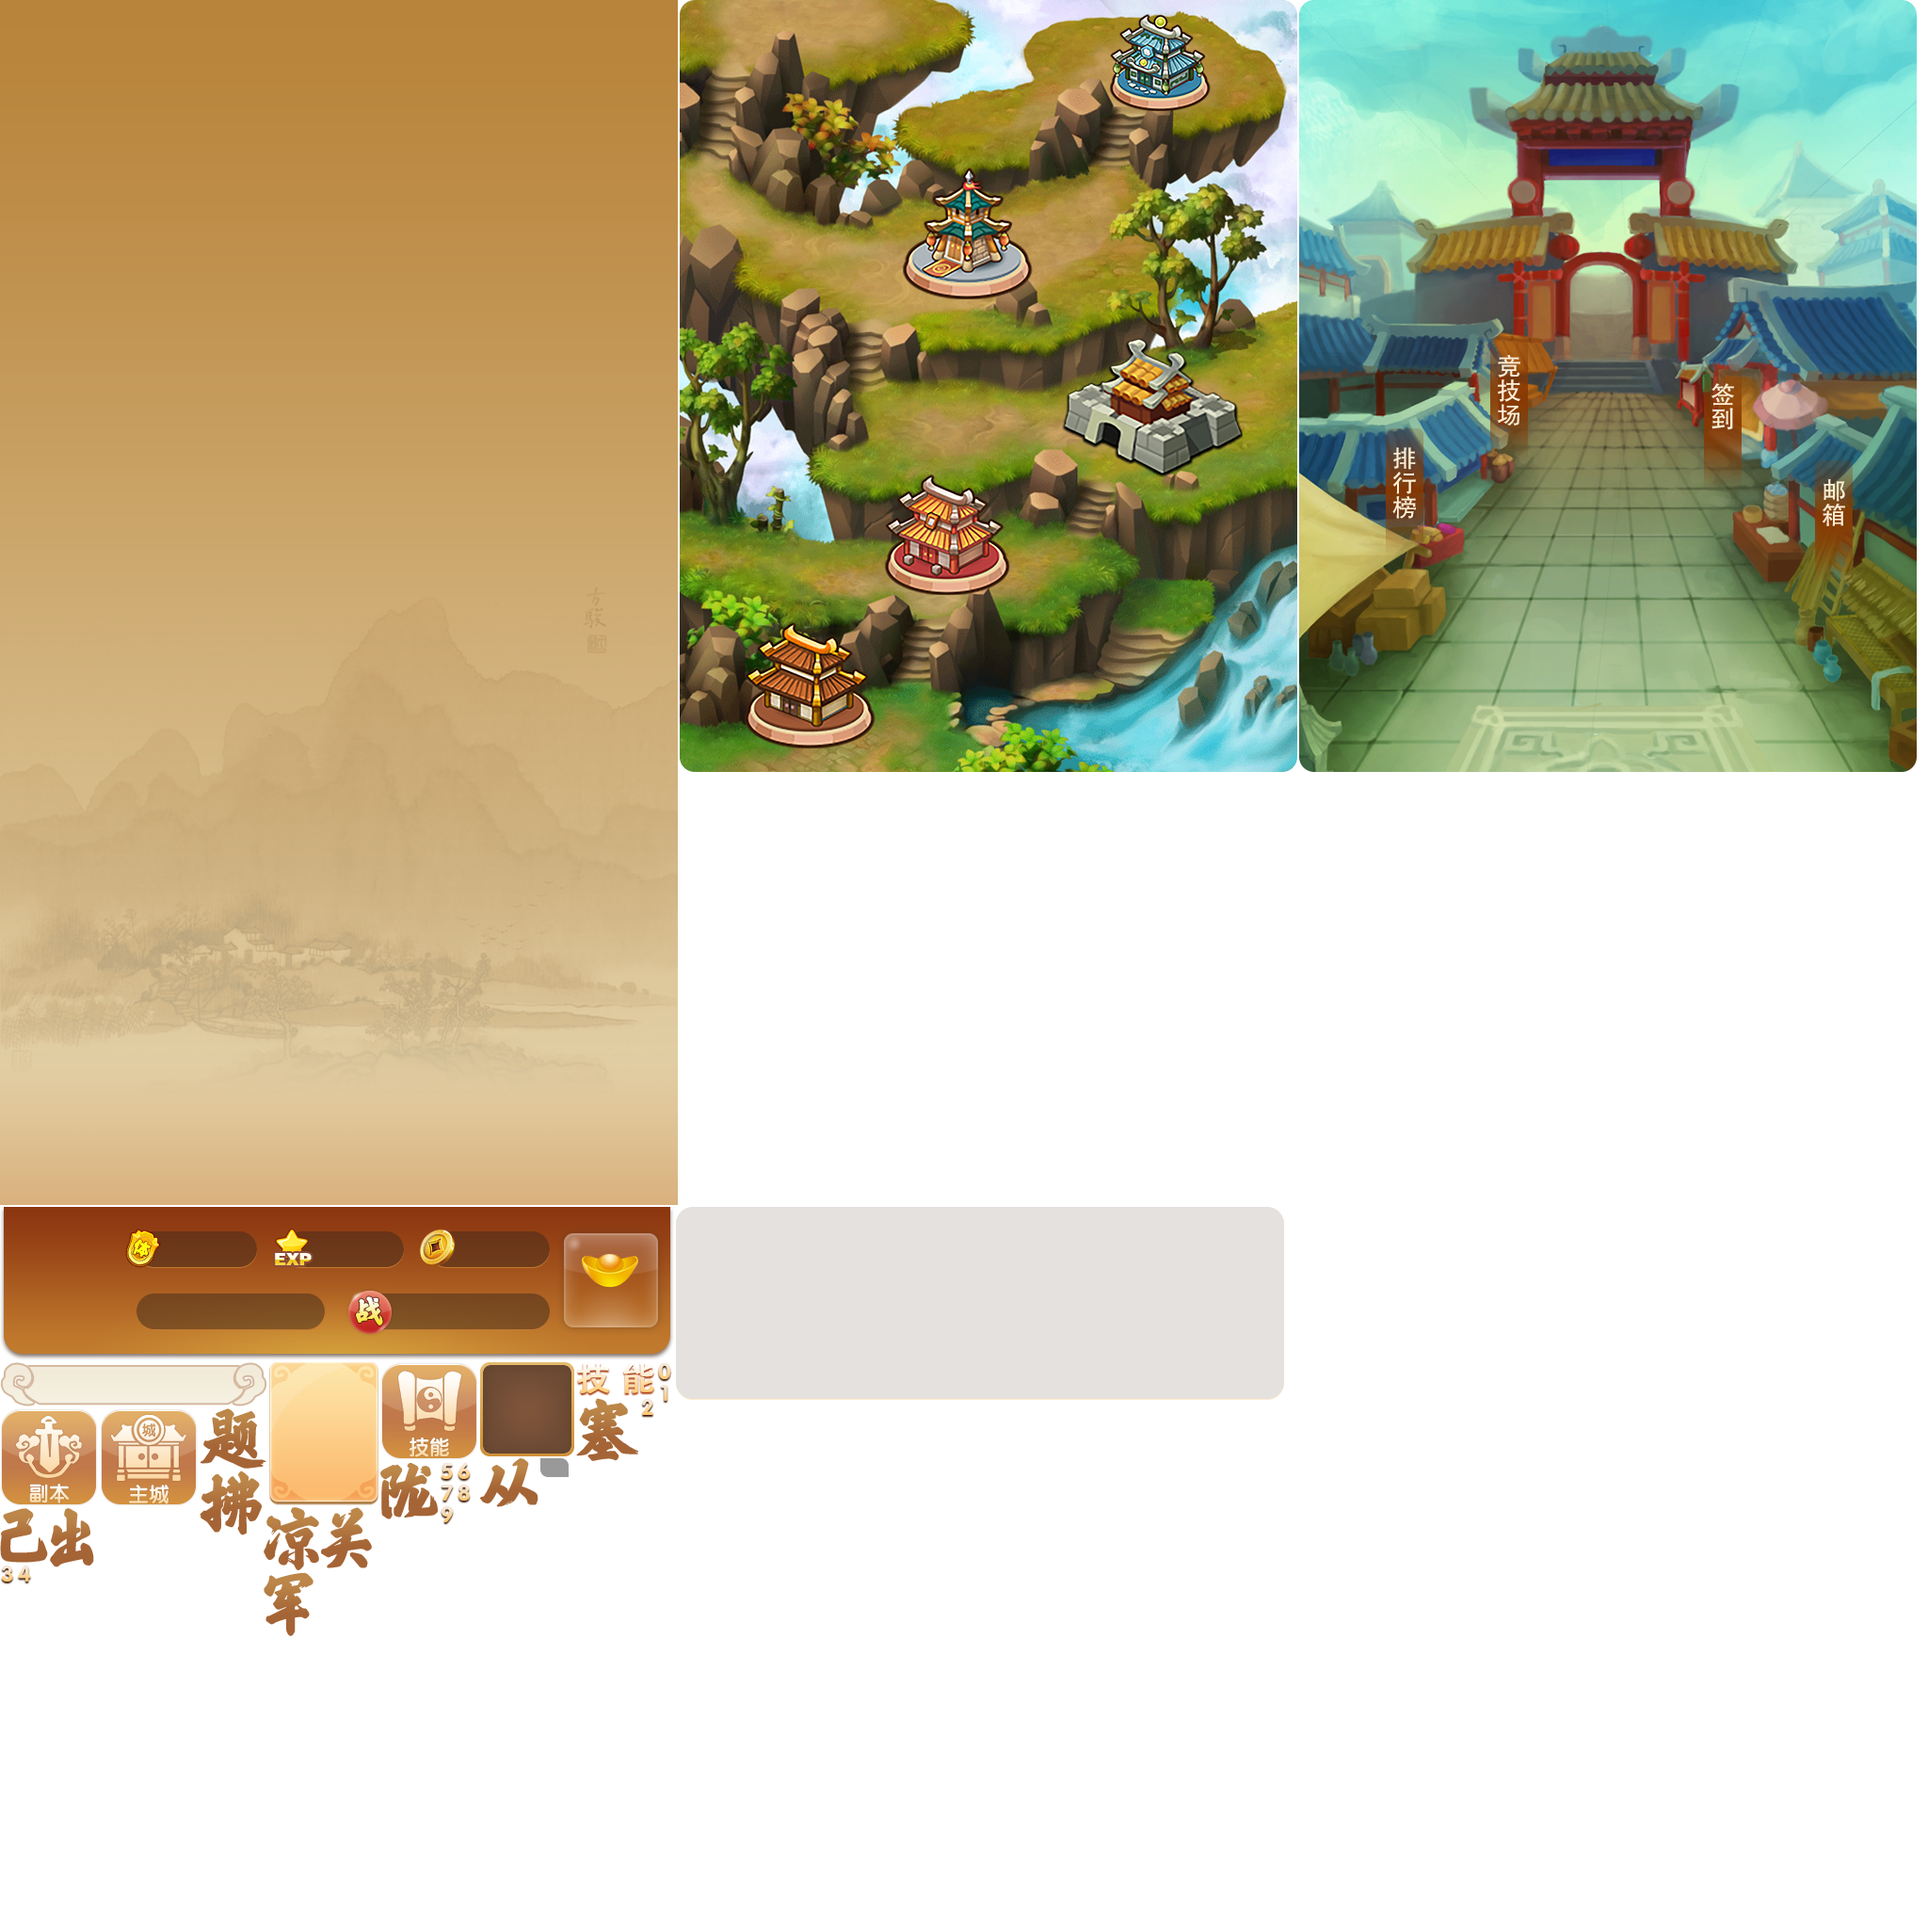
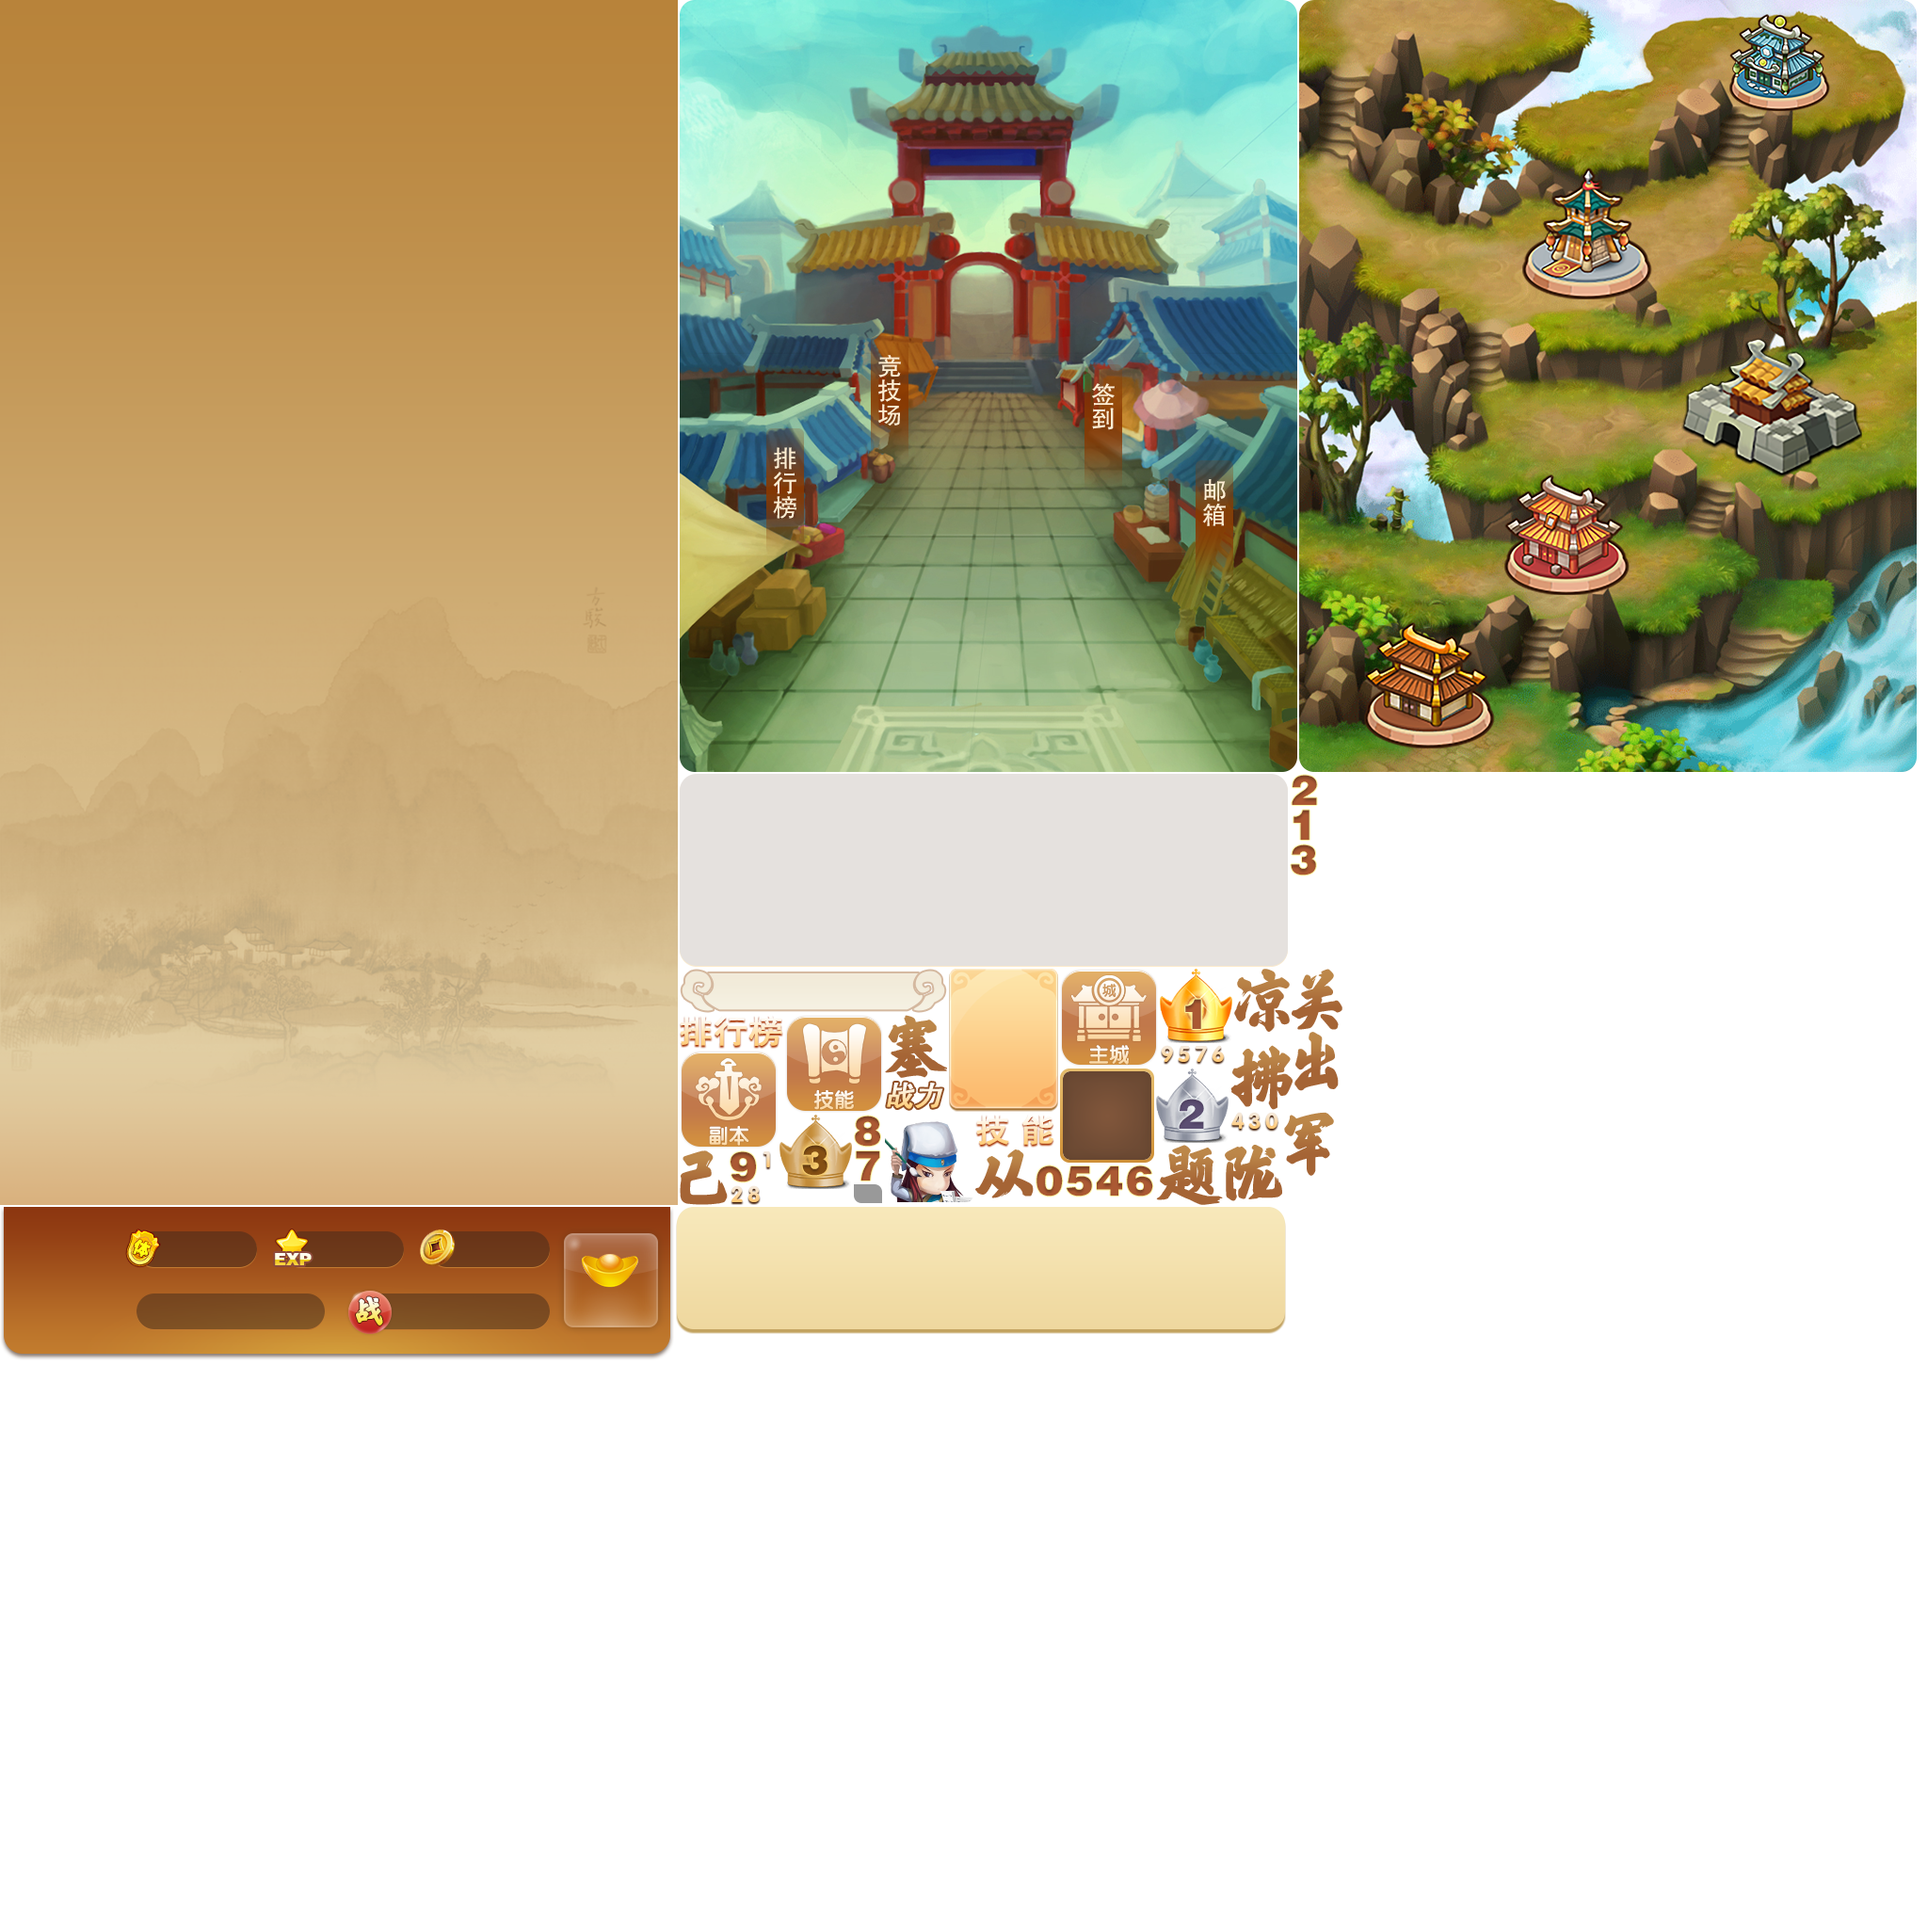
drzg

diff --git a/DRZG/Code/bin/js/game.js b/DRZG/Code/bin/js/game.js
@@ -1128,6 +1128,58 @@ var View;
 (function (View) {
     var UI;
     (function (UI) {
+        class PHBPanel {
+            constructor(owner) {
+                this._owner = owner;
+                this._root = owner.root.getChild("c3").asCom;
+                this._list = this._root.getChild("list").asList;
+            }
+            Dispose() {
+            }
+            Enter() {
+                let atks = [];
+                for (let i = 0; i < 50; ++i) {
+                    atks.push(Math.round(Math.random() * 25000 + 5000));
+                }
+                atks.sort();
+                for (let i = 0; i < 50; ++i) {
+                    let item = this._list.addItemFromPool().asCom;
+                    item.getChild("name").asTextField.text = btoa(RC.Utils.GUID.Generate().ToString(RC.Utils.GuidFormat.DASHES));
+                    let rank;
+                    switch (i) {
+                        case 0:
+                            rank = "a";
+                            break;
+                        case 1:
+                            rank = "b";
+                            break;
+                        case 2:
+                            rank = "c";
+                            break;
+                        default:
+                            rank = "" + (i + 1);
+                            break;
+                    }
+                    item.getChild("rank").asTextField.text = rank;
+                    item.getChild("atk").asTextField.text = "" + atks[i];
+                    item.getChild("lvl").asTextField.text = "" + Math.round(Math.random() * 30 + 20);
+                }
+            }
+            Exit() {
+                this._list.removeChildrenToPool();
+            }
+            Update(deltaTime) {
+            }
+            OnResize(e) {
+            }
+        }
+        UI.PHBPanel = PHBPanel;
+    })(UI = View.UI || (View.UI = {}));
+})(View || (View = {}));
+var View;
+(function (View) {
+    var UI;
+    (function (UI) {
         class SkillPanel {
             constructor(owner) {
                 this._owner = owner;
@@ -1271,6 +1323,7 @@ var View;
             get zcPanel() { return this._zcPanel; }
             get fbPanel() { return this._fbPanel; }
             get skillPanel() { return this._skillPanel; }
+            get phbPanel() { return this._phbPanel; }
             set panelIndex(value) {
                 if (this._controller.selectedIndex == value)
                     return;
@@ -1289,10 +1342,12 @@ var View;
                 this._zcPanel = new UI.ZCPanel(this);
                 this._fbPanel = new UI.FBPanel(this);
                 this._skillPanel = new UI.SkillPanel(this);
+                this._phbPanel = new UI.PHBPanel(this);
                 this._controller = this._root.getController("c1");
                 this._panels.push(this._zcPanel);
                 this._panels.push(this._fbPanel);
                 this._panels.push(this._skillPanel);
+                this._panels.push(this._phbPanel);
                 this._root.getChild("main_btn").onClick(this, this.OnMainBtnClick);
                 this._root.getChild("fuben_btn").onClick(this, this.OnFubenBtnClick);
                 this._root.getChild("skill_btn").onClick(this, this.OnSkillBtnClick);
@@ -1451,6 +1506,7 @@ var View;
             OnJJCBtnClick() {
             }
             OnPHBBtnClick() {
+                this._owner.panelIndex = 3;
             }
             OnQDBtnClick() {
             }

diff --git a/DRZG/Code/src/View/UI/PHBPanel.ts b/DRZG/Code/src/View/UI/PHBPanel.ts
@@ -1,0 +1,58 @@
+namespace View.UI {
+	export class PHBPanel implements IMainPanel {
+		private _owner: UIMain;
+		private _root: fairygui.GComponent;
+		private _list: fairygui.GList;
+
+		constructor(owner: UIMain) {
+			this._owner = owner;
+			this._root = owner.root.getChild("c3").asCom;
+
+			this._list = this._root.getChild("list").asList;
+		}
+
+		public Dispose(): void {
+		}
+
+		public Enter(): void {
+			let atks: number[] = [];
+			for (let i = 0; i < 50; ++i) {
+				atks.push(Math.round(Math.random() * 25000 + 5000));
+			}
+			atks.sort();
+
+			for (let i = 0; i < 50; ++i) {
+				let item = this._list.addItemFromPool().asCom;
+				item.getChild("name").asTextField.text = btoa(RC.Utils.GUID.Generate().ToString(RC.Utils.GuidFormat.DASHES));
+				let rank: string;
+				switch (i) {
+					case 0:
+						rank = "a";
+						break;
+					case 1:
+						rank = "b";
+						break;
+					case 2:
+						rank = "c";
+						break;
+					default:
+						rank = "" + (i + 1);
+						break;
+				}
+				item.getChild("rank").asTextField.text = rank;
+				item.getChild("atk").asTextField.text = "" + atks[i];
+				item.getChild("lvl").asTextField.text = "" + Math.round(Math.random() * 30 + 20);
+			}
+		}
+
+		public Exit(): void {
+			this._list.removeChildrenToPool();
+		}
+
+		public Update(deltaTime: number): void {
+		}
+
+		public OnResize(e: laya.events.Event): void {
+		}
+	}
+}

diff --git a/DRZG/Code/src/View/UI/UIMain.ts b/DRZG/Code/src/View/UI/UIMain.ts
@@ -5,12 +5,14 @@ namespace View.UI {
 		private _zcPanel: ZCPanel;
 		private _fbPanel: FBPanel;
 		private _skillPanel: SkillPanel;
+		private _phbPanel: PHBPanel;
 		private readonly _panels: IMainPanel[];
 
 		public get root(): fairygui.GComponent { return this._root; }
 		public get zcPanel(): ZCPanel { return this._zcPanel; }
 		public get fbPanel(): FBPanel { return this._fbPanel; }
 		public get skillPanel(): SkillPanel { return this._skillPanel; }
+		public get phbPanel(): PHBPanel { return this._phbPanel; }
 
 		public set panelIndex(value: number) {
 			if (this._controller.selectedIndex == value)
@@ -38,11 +40,13 @@ namespace View.UI {
 			this._zcPanel = new ZCPanel(this);
 			this._fbPanel = new FBPanel(this);
 			this._skillPanel = new SkillPanel(this);
+			this._phbPanel = new PHBPanel(this);
 
 			this._controller = this._root.getController("c1");
 			this._panels.push(this._zcPanel);
 			this._panels.push(this._fbPanel);
 			this._panels.push(this._skillPanel);
+			this._panels.push(this._phbPanel);
 
 			this._root.getChild("main_btn").onClick(this, this.OnMainBtnClick);
 			this._root.getChild("fuben_btn").onClick(this, this.OnFubenBtnClick);

diff --git a/DRZG/Code/src/View/UI/ZCPanel.ts b/DRZG/Code/src/View/UI/ZCPanel.ts
@@ -32,6 +32,7 @@ namespace View.UI {
 		}
 
 		private OnPHBBtnClick(): any {
+			this._owner.panelIndex = 3;
 		}
 
 		private OnQDBtnClick(): any {
